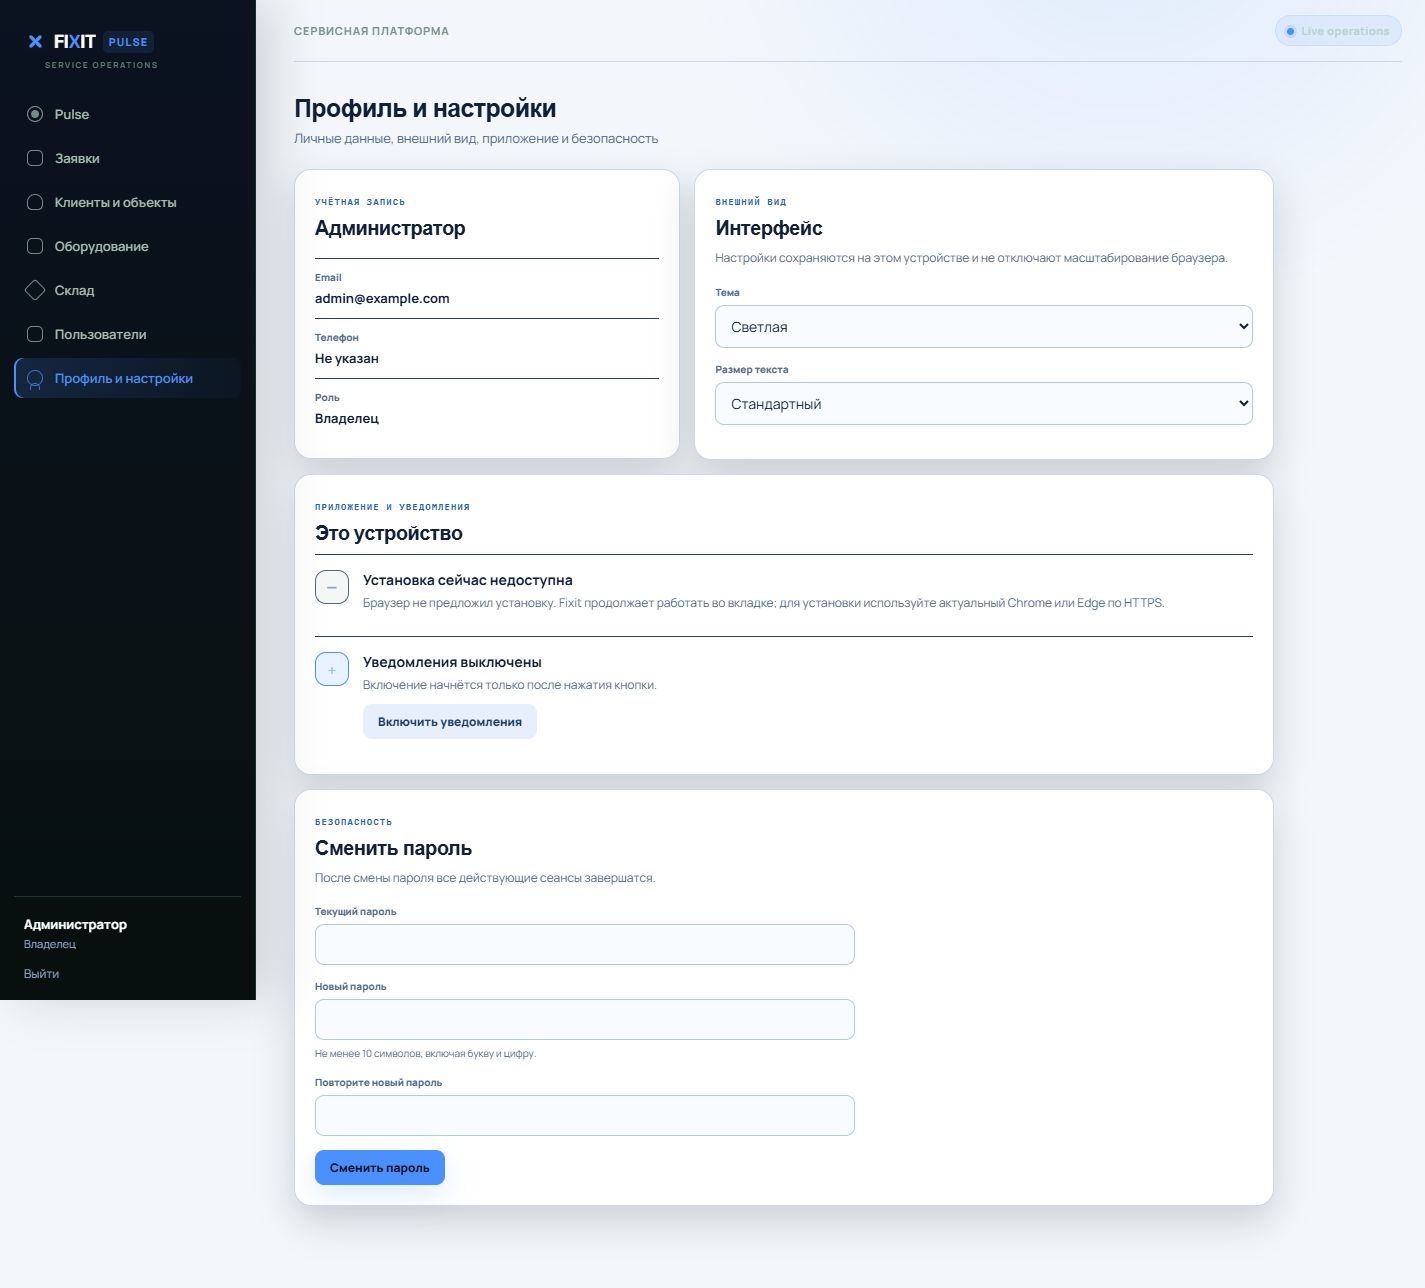
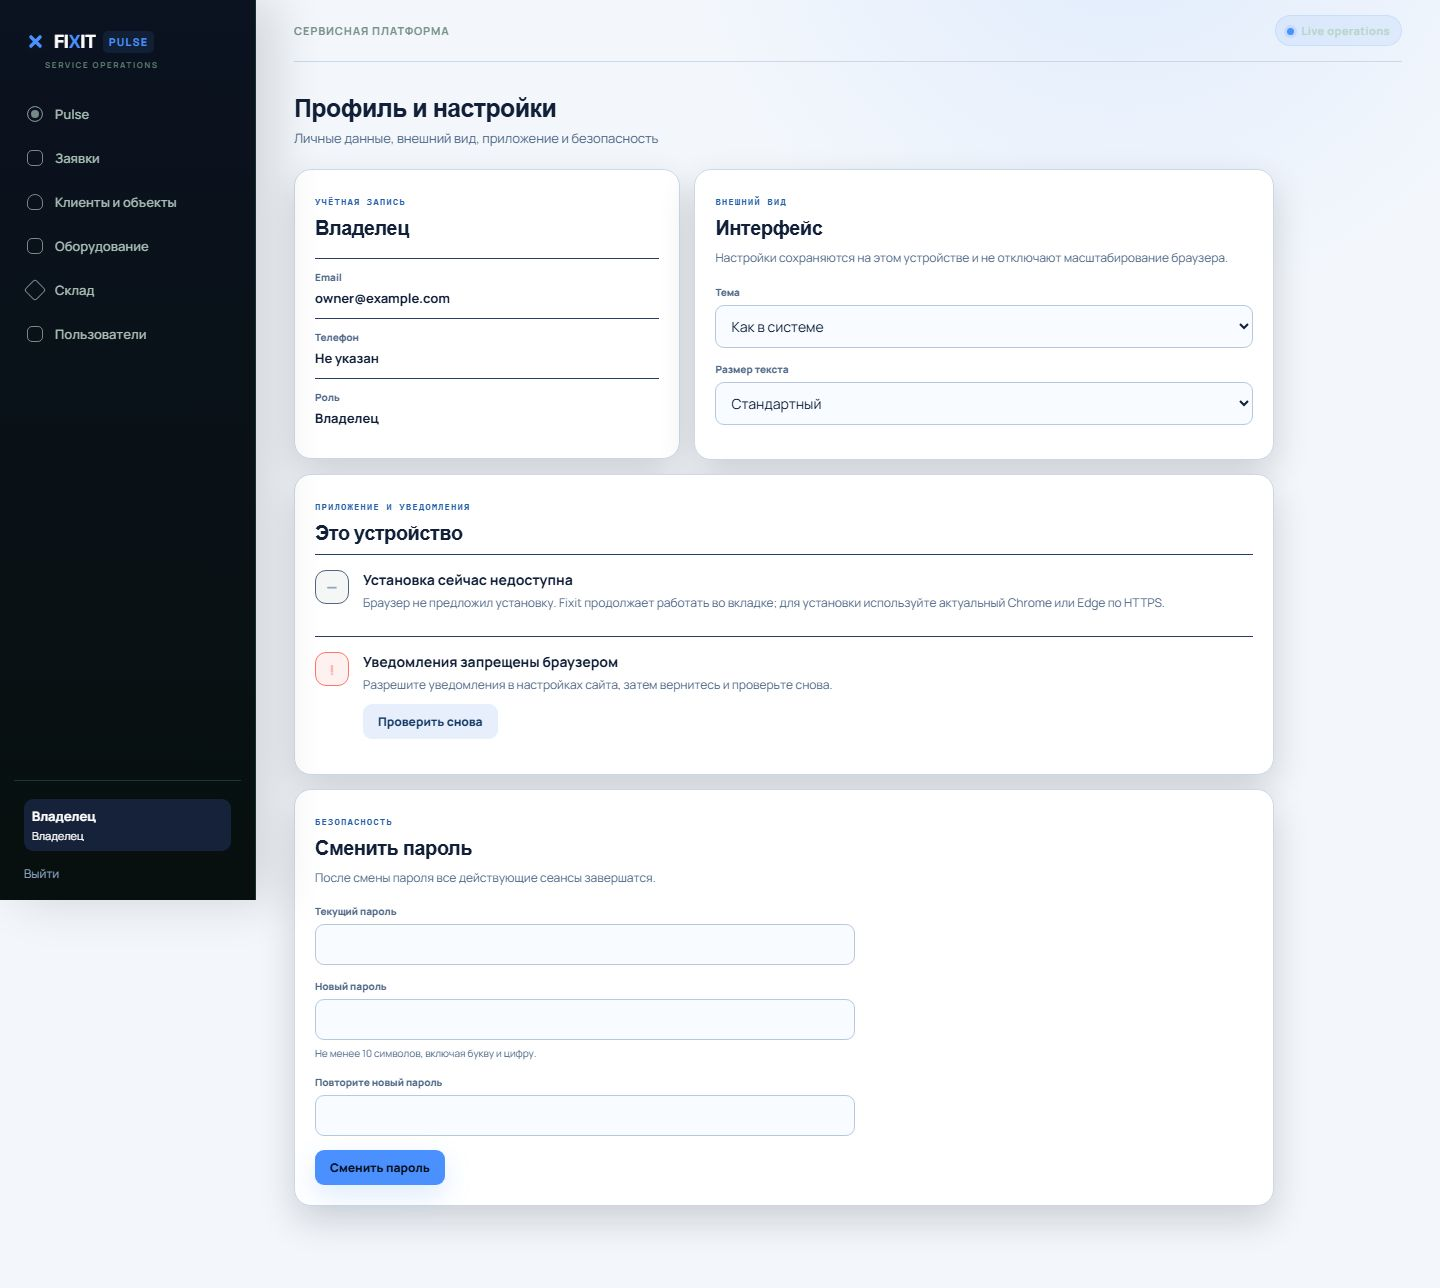
fix: open profile from sidebar identity

diff --git a/app/static/app.js b/app/static/app.js
@@ -60,7 +60,7 @@ async function registerPulseWorker() {
   if (!('serviceWorker' in navigator)) return null;
   const registrations = await navigator.serviceWorker.getRegistrations();
   await Promise.all(registrations.map(item => item.update().catch(() => null)));
-  return navigator.serviceWorker.register('/sw.js?v=20261002-3', { scope: '/' });
+  return navigator.serviceWorker.register('/sw.js?v=20261002-4', { scope: '/' });
 }
 
 async function enablePush() {
@@ -510,27 +510,27 @@ const NAV = {
   owner: [
     ['pulse', 'Pulse'], ['requests', 'Заявки'],
     ['clients', 'Клиенты и объекты'], ['equipment', 'Оборудование'],
-    ['warehouse', 'Склад'], ['users', 'Пользователи'], ['profile', 'Профиль и настройки'],
+    ['warehouse', 'Склад'], ['users', 'Пользователи'],
   ],
   admin: [
     ['pulse', 'Pulse'], ['requests', 'Заявки'],
     ['clients', 'Клиенты и объекты'],
     ['equipment', 'Оборудование'],
     ['warehouse', 'Склад и запчасти'],
-    ['users', 'Пользователи'], ['profile', 'Профиль и настройки'],
+    ['users', 'Пользователи'],
   ],
   dispatcher: [
     ['pulse', 'Pulse'], ['requests', 'Заявки'],
     ['clients', 'Клиенты и объекты'],
     ['equipment', 'Оборудование'],
-    ['warehouse', 'Склад и запчасти'], ['profile', 'Профиль и настройки'],
+    ['warehouse', 'Склад и запчасти'],
   ],
   technician: [
     ['pulse', 'Pulse'], ['requests', 'Мои заявки'], ['equipment', 'Оборудование'],
-    ['warehouse', 'Мой склад'], ['profile', 'Профиль и настройки'],
+    ['warehouse', 'Мой склад'],
   ],
-  client_admin: [['pulse', 'Главная'], ['requests', 'Заявки'], ['equipment', 'Оборудование'], ['clients', 'Команда'], ['documents', 'Документы'], ['profile', 'Профиль и настройки']],
-  client_site_user: [['pulse', 'Главная'], ['requests', 'Заявки'], ['equipment', 'Оборудование'], ['documents', 'Документы'], ['profile', 'Профиль и настройки']],
+  client_admin: [['pulse', 'Главная'], ['requests', 'Заявки'], ['equipment', 'Оборудование'], ['clients', 'Команда'], ['documents', 'Документы']],
+  client_site_user: [['pulse', 'Главная'], ['requests', 'Заявки'], ['equipment', 'Оборудование'], ['documents', 'Документы']],
 };
 
 function renderNav() {
@@ -543,6 +543,8 @@ function renderNav() {
   });
   document.getElementById('user-name').textContent = state.me.full_name;
   document.getElementById('user-role').textContent = ROLE_LABEL[state.me.role] || state.me.role;
+  document.getElementById('user-profile-btn').classList.toggle('active', state.route === 'profile');
+  document.getElementById('user-profile-btn').setAttribute('aria-current', state.route === 'profile' ? 'page' : 'false');
   renderMobileNav(items);
 }
 
@@ -750,7 +752,7 @@ async function router() {
   state.clientId = route === 'clients' && routeId ? routeId : null;
   state.clientTab = state.clientId ? (routeTab || 'overview') : null;
   state.clientSiteId = state.clientTab === 'sites' && routeChildId ? routeChildId : null;
-  const allowedRoutes = (NAV[state.me?.role] || []).map(([key]) => key);
+  const allowedRoutes = [...(NAV[state.me?.role] || []).map(([key]) => key), 'profile'];
   if (!allowedRoutes.includes(state.route) && state.route !== 'inventory') {
     state.route = defaultRoute;
     history.replaceState(null, '', `#${defaultRoute}`);
@@ -2595,6 +2597,7 @@ async function showResetPassword(rawToken) {
 
 document.getElementById('forgot-password-btn').addEventListener('click', showForgotPassword);
 
+document.getElementById('user-profile-btn').addEventListener('click', () => { location.hash = 'profile'; });
 document.getElementById('logout-btn').addEventListener('click', logout);
 
 async function showJoinScreen(token) {

diff --git a/app/static/index.html b/app/static/index.html
@@ -22,7 +22,7 @@
   document.documentElement.dataset.textSize = size;
 })();
 </script>
-<link rel="stylesheet" href="/static/styles.css?v=20261002-3">
+<link rel="stylesheet" href="/static/styles.css?v=20261002-4">
 </head>
 <body>
 
@@ -59,10 +59,10 @@
     <div class="brand-caption">SERVICE OPERATIONS</div>
     <nav id="nav"></nav>
     <div class="sidebar-footer">
-      <div class="sidebar-user">
+      <button type="button" class="sidebar-user" id="user-profile-btn" aria-label="Открыть профиль и настройки">
         <strong id="user-name">—</strong>
         <span id="user-role">—</span>
-      </div>
+      </button>
       <button class="logout-btn" id="logout-btn">Выйти</button>
     </div>
   </div>
@@ -70,7 +70,7 @@
     <header class="app-topbar"><span>Сервисная платформа</span><div><i></i> Live operations</div></header>
     <header class="mobile-topbar">
       <div class="brand"><img class="brand-mark" src="/static/icons/fixit-hidden-x.svg" alt=""><strong>FI<span>X</span>IT</strong><em>PULSE</em></div>
-      <button class="mobile-profile" id="mobile-profile-btn" aria-label="Меню пользователя"><span></span></button>
+      <button class="mobile-profile" id="mobile-profile-btn" aria-label="Открыть профиль и настройки"><span></span></button>
     </header>
     <div id="content"></div>
   </div>
@@ -78,8 +78,8 @@
   <div class="more-menu hidden" id="more-menu"></div>
 </div>
 
-<script src="/static/offline/engine.js?v=20261002-3"></script>
+<script src="/static/offline/engine.js?v=20261002-4"></script>
 <script src="/static/inventory.js?v=20260929-1"></script>
-  <script src="/static/app.js?v=20261002-3"></script>
+  <script src="/static/app.js?v=20261002-4"></script>
 </body>
 </html>

diff --git a/app/static/sw.js b/app/static/sw.js
@@ -1,7 +1,7 @@
 // Root-scoped Fixit Pulse worker: preserves the durable offline repair engine.
-importScripts('/static/offline/engine.js?v=20261002-3');
+importScripts('/static/offline/engine.js?v=20261002-4');
 const SHELL_CACHE = 'fixit-pulse-shell-v16';
-const SHELL = ['/static/inventory.js?v=20260929-1', '/', '/static/styles.css?v=20261002-3', '/static/app.js?v=20261002-3', '/static/offline/engine.js?v=20261002-3', '/static/icons/fixit-192.png', '/static/icons/fixit-512.png', '/static/icons/fixit-512-maskable.png'];
+const SHELL = ['/static/inventory.js?v=20260929-1', '/', '/static/styles.css?v=20261002-4', '/static/app.js?v=20261002-4', '/static/offline/engine.js?v=20261002-4', '/static/icons/fixit-192.png', '/static/icons/fixit-512.png', '/static/icons/fixit-512-maskable.png'];
 self.addEventListener('install', (event) => event.waitUntil(caches.open(SHELL_CACHE).then((cache) => cache.addAll(SHELL)).then(() => self.skipWaiting())));
 self.addEventListener('activate', (event) => event.waitUntil(Promise.all([
   self.clients.claim(),

diff --git a/app/static/styles.css b/app/static/styles.css
@@ -32,7 +32,8 @@ input, select, textarea { font-family: inherit; font-size: 14px; }
 .nav-icon-clients { border-radius: 50% 50% 5px 5px; }
 .nav-icon-warehouse { transform: rotate(45deg); border-radius: 3px; }
 .sidebar-footer { margin-top: auto; padding: 18px 10px 0; border-top: 1px solid #20342c; }
-.sidebar-user { font-size: 11px; color: var(--sidebar-ink-dim); margin-bottom: 12px; }
+.sidebar-user { width:100%; margin:0 0 12px; padding:8px; border-radius:9px; background:none; color:var(--sidebar-ink-dim); font-size:11px; text-align:left; transition:.18s ease; }
+.sidebar-user:hover,.sidebar-user.active { background:var(--sidebar-raised); color:#fff; }
 .sidebar-user strong { display: block; color: #fff; font-size: 13px; margin-bottom: 3px; }
 .logout-btn { background: none; color: var(--sidebar-ink-dim); font-size: 12px; padding: 0; }
 .logout-btn:hover { color: var(--accent); }

diff --git a/app/static/offline/engine.js b/app/static/offline/engine.js
@@ -230,7 +230,7 @@
   async function registerBackgroundSync() {
     if (!root.navigator?.serviceWorker) return;
     try {
-      const registration = await root.navigator.serviceWorker.register('/sw.js?v=20261002-3', { scope: '/' });
+      const registration = await root.navigator.serviceWorker.register('/sw.js?v=20261002-4', { scope: '/' });
       if ('sync' in registration) await registration.sync.register('fixit-sync-repairs');
     } catch (_) { /* Foreground recovery works without Background Sync. */ }
   }

diff --git a/tests/test_frontend_parity_browser.py b/tests/test_frontend_parity_browser.py
@@ -31,6 +31,24 @@ async def assert_no_horizontal_scroll(page):
     assert await page.evaluate("document.documentElement.scrollWidth <= document.documentElement.clientWidth")
 
 
+async def test_profile_opens_from_sidebar_identity_without_separate_nav_item(live, flow):
+    from playwright.async_api import async_playwright, expect
+    async with async_playwright() as playwright:
+        browser = await playwright.chromium.launch()
+        page = await browser.new_page(viewport={"width": 1440, "height": 900})
+        try:
+            await login(page, flow.owner.email)
+            await expect(page.locator('#nav [data-route="profile"]')).to_have_count(0)
+            identity = page.locator("#user-profile-btn")
+            await expect(identity).to_contain_text(flow.owner.full_name)
+            await identity.click()
+            await expect(page).to_have_url("http://127.0.0.1:8765/#profile")
+            await expect(page.get_by_role("heading", name="Профиль и настройки")).to_be_visible()
+            await expect(identity).to_have_attribute("aria-current", "page")
+        finally:
+            await browser.close()
+
+
 async def test_qr_request_assignment_reaches_technician_and_cannot_be_reassigned(live, flow):
     from playwright.async_api import async_playwright, expect
     created = await qr(flow)

diff --git a/tests/test_profile_frontend.py b/tests/test_profile_frontend.py
@@ -6,7 +6,11 @@ ROOT = Path(__file__).parents[1]
 def test_profile_is_available_to_every_role_and_persists_appearance():
     source = (ROOT / "app/static/app.js").read_text(encoding="utf-8")
     nav = source.split("const NAV = {", 1)[1].split("\n};", 1)[0]
-    assert nav.count("['profile', 'Профиль и настройки']") == 6
+    html = (ROOT / "app/static/index.html").read_text(encoding="utf-8")
+    assert "['profile', 'Профиль и настройки']" not in nav
+    assert 'id="user-profile-btn"' in html
+    assert "getElementById('user-profile-btn').addEventListener('click'" in source
+    assert "[...(NAV[state.me?.role] || []).map(([key]) => key), 'profile']" in source
     assert "fixit-theme" in source and "fixit-text-size" in source
     assert "system" in source and "light" in source and "dark" in source
     assert "standard" in source and "large" in source and "xlarge" in source
